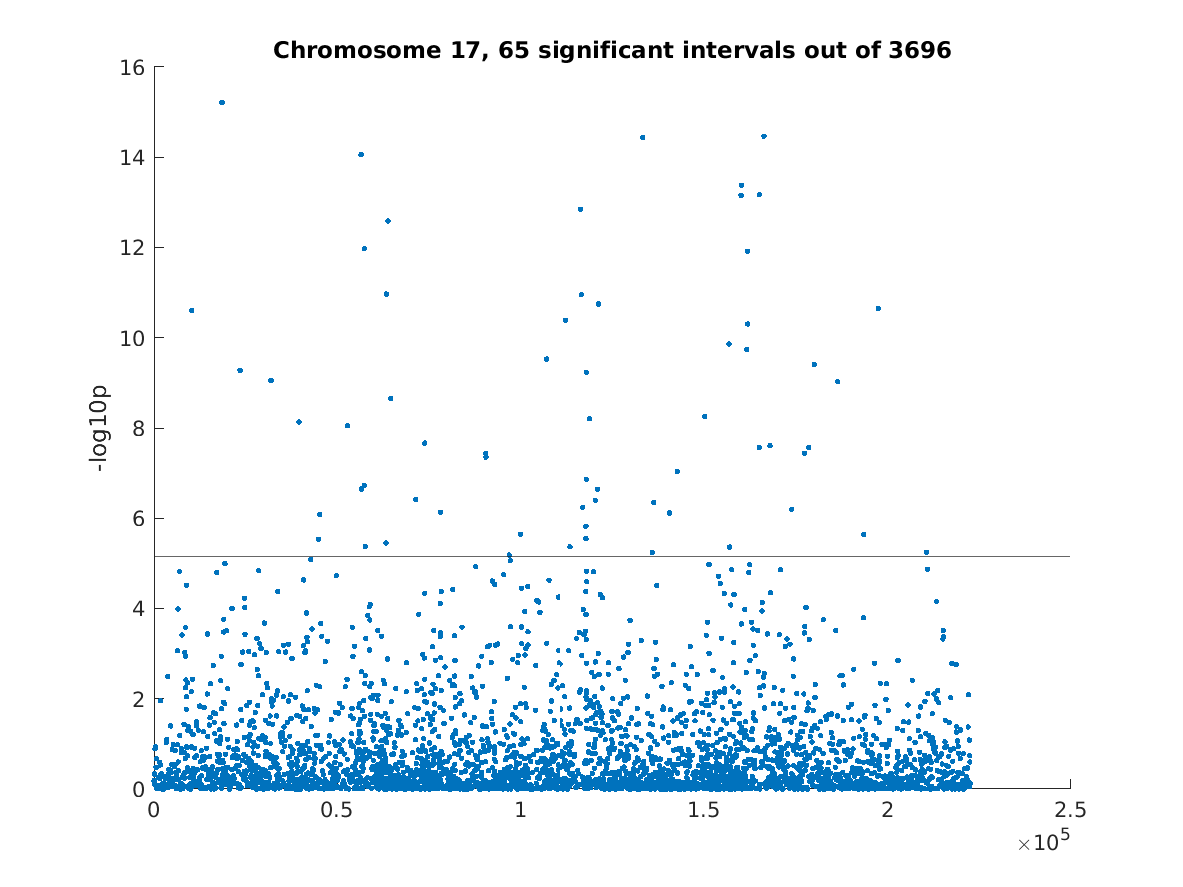
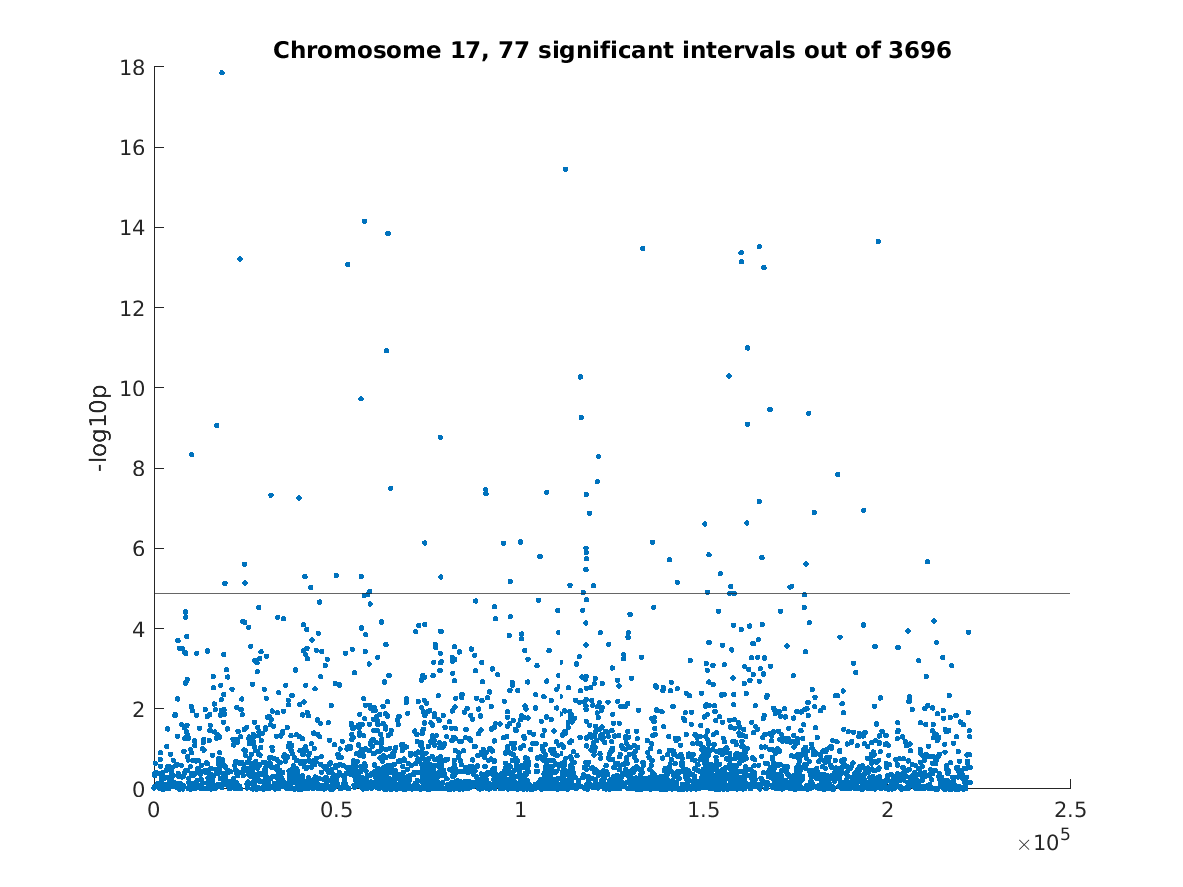
Updated chromosome 17 significant csvs and figures after control
Former-commit-id: 8f578a04f3cc865894c1255f9518da2ce973b4f8

diff --git a/matlab/genomeDemo.m b/matlab/genomeDemo.m
@@ -97,9 +97,10 @@ assert(all((1:length(phenoId)) == phenoIndex'));
 phenoWhole = horzcat(pheno.clusterPCAPhenoFeatures{:});
 
 [stats, intStats, intervals] = runCCA(phenoWhole, genoPruned, snpsPruned);
-pThres = 0.05/ size(intStats.ChiSqSignificance, 1);
+
 
 %%
+pThres = 0.05/ size(intStats.chiSqSignificance, 1);
 significantInts = intervals(intStats.chiSqSignificance<pThres, :);
 starts = significantInts(:,1);
 ends = significantInts(:,2);
@@ -119,12 +120,9 @@ for c=1:size(significantInts,1)
 end
 sigSnps.COEF = sigSnpsCoef;
 
-writetable(sigSnps, [RESULTS_DIR, 'significant_snps_chr17_slidwin_20k.csv']);
-writetable(intTable, [RESULTS_DIR, 'significant_intervals_chr17_slidwin_20k.csv']);
+writetable(sigSnps, [RESULTS_DIR, 'significant_snps_chr' num2str(chr) '_slidwin_20k.csv']);
 intTable = [stSnps, enSnps];
-
-
-%%
+writetable(intTable, [RESULTS_DIR, 'significant_intervals_chr' num2str(chr) '_slidwin_20k.csv']);
 
 
 %%
@@ -134,8 +132,8 @@ title(['Chromosome ' num2str(chr) ', ' num2str(sum(intStats.chiSqSignificance<pT
 ylabel('-log10p');
 yline(-log10(pThres));
 %%
-savefig(fig, [RESULTS_DIR 'chr17_all_segments.fig']);
-saveas(fig, [RESULTS_DIR 'chr17_all_segments.png']);
+savefig(fig, [RESULTS_DIR 'chr' num2str(chr) '_all_segments.fig']);
+saveas(fig, [RESULTS_DIR 'chr' num2str(chr) '_all_segments.png']);
 
 
 %%
